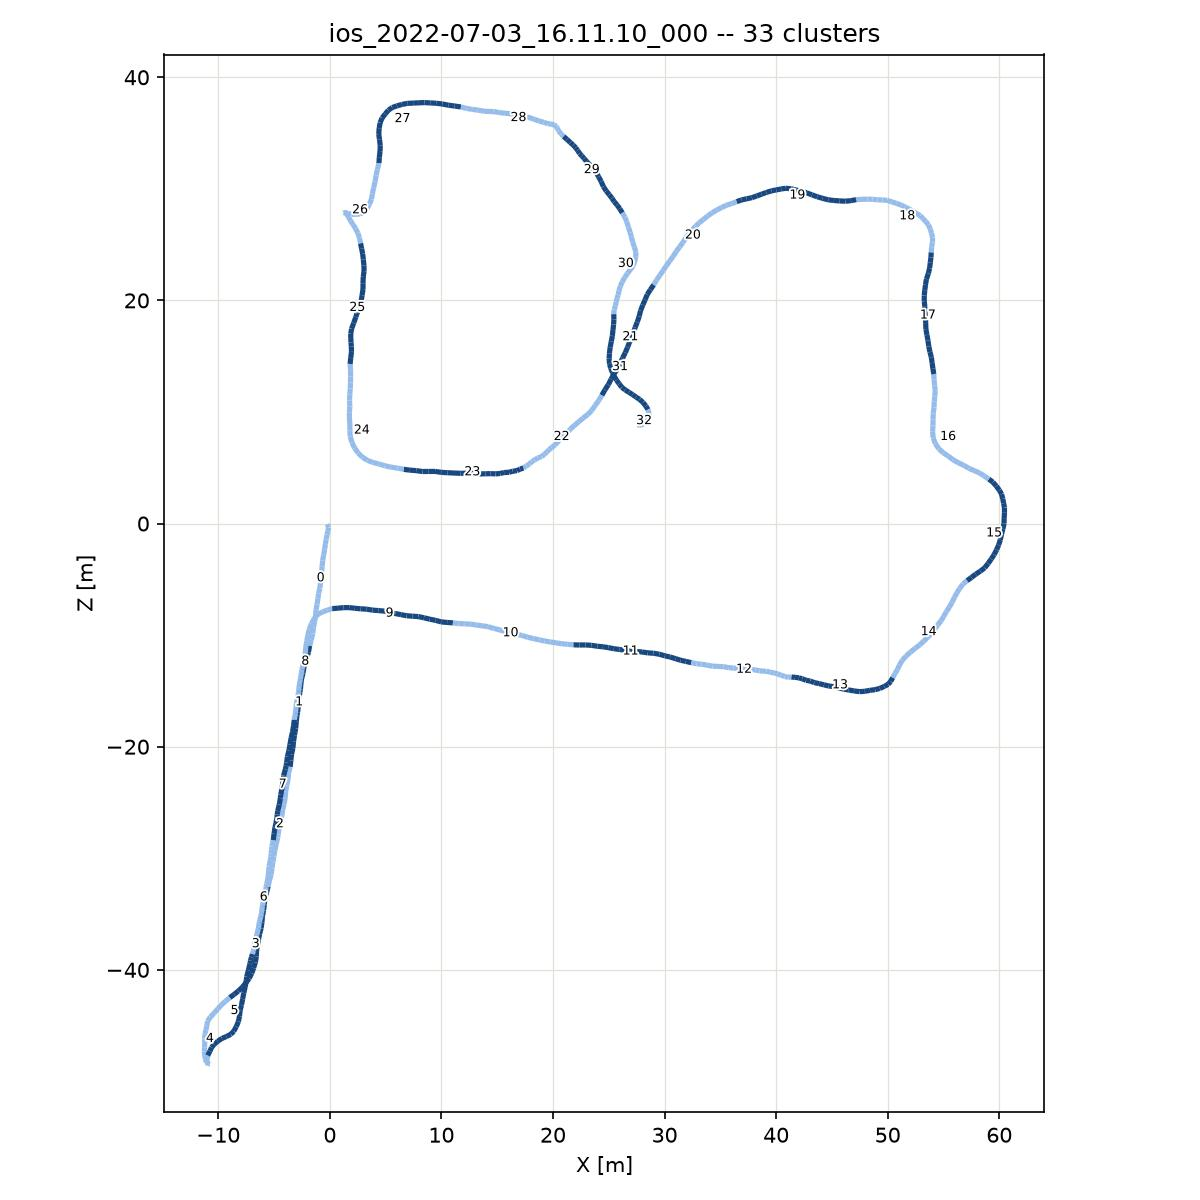
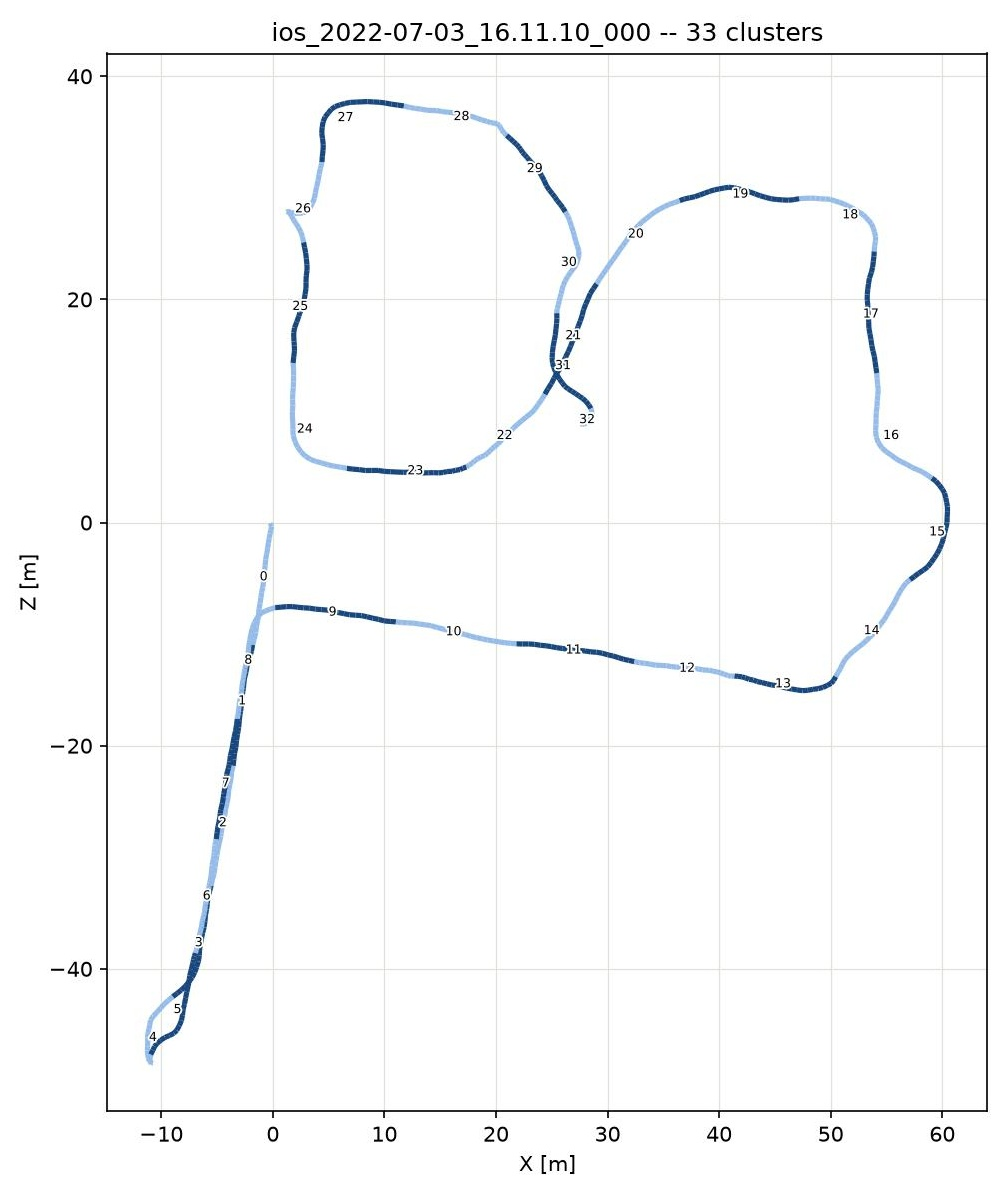
Tighten cluster figures: crop whitespace, match by height
The raw clusters.jpg outputs had uneven blank margins (matplotlib's
own equal-aspect axis sizing against a square figure canvas), most
visibly on the HGE HoloLens panel which was nearly a third empty top
and bottom. Auto-cropped each to its actual content bounding box, then
switched the figure from independent per-panel widths to a shared
height so the row packs tightly instead of each panel dictating its
own leftover whitespace.

diff --git a/sections/03_method.tex b/sections/03_method.tex
@@ -210,11 +210,11 @@ closed clusters, each with its member keyframes and their descriptors.
 
 \begin{figure}[htb]
   \centering
-  \includegraphics[width=0.32\textwidth]{images/03_method/03_clustering/clusters_kitti_00.jpg}
+  \includegraphics[height=4.3cm]{images/03_method/03_clustering/clusters_kitti_00.jpg}
   \hfill
-  \includegraphics[width=0.32\textwidth]{images/03_method/03_clustering/clusters_hge_hololens.jpg}
+  \includegraphics[height=4.3cm]{images/03_method/03_clustering/clusters_hge_hololens.jpg}
   \hfill
-  \includegraphics[width=0.32\textwidth]{images/03_method/03_clustering/clusters_hge_ios.jpg}
+  \includegraphics[height=4.3cm]{images/03_method/03_clustering/clusters_hge_ios.jpg}
   \caption{Real clustering output across three very different capture settings: KITTI sequence
     00 (stereo, outdoor driving, 172 clusters), an HGE session captured on a HoloLens (indoor
     walking, 28 clusters), and an HGE session captured on an iPad (indoor walking, 33
